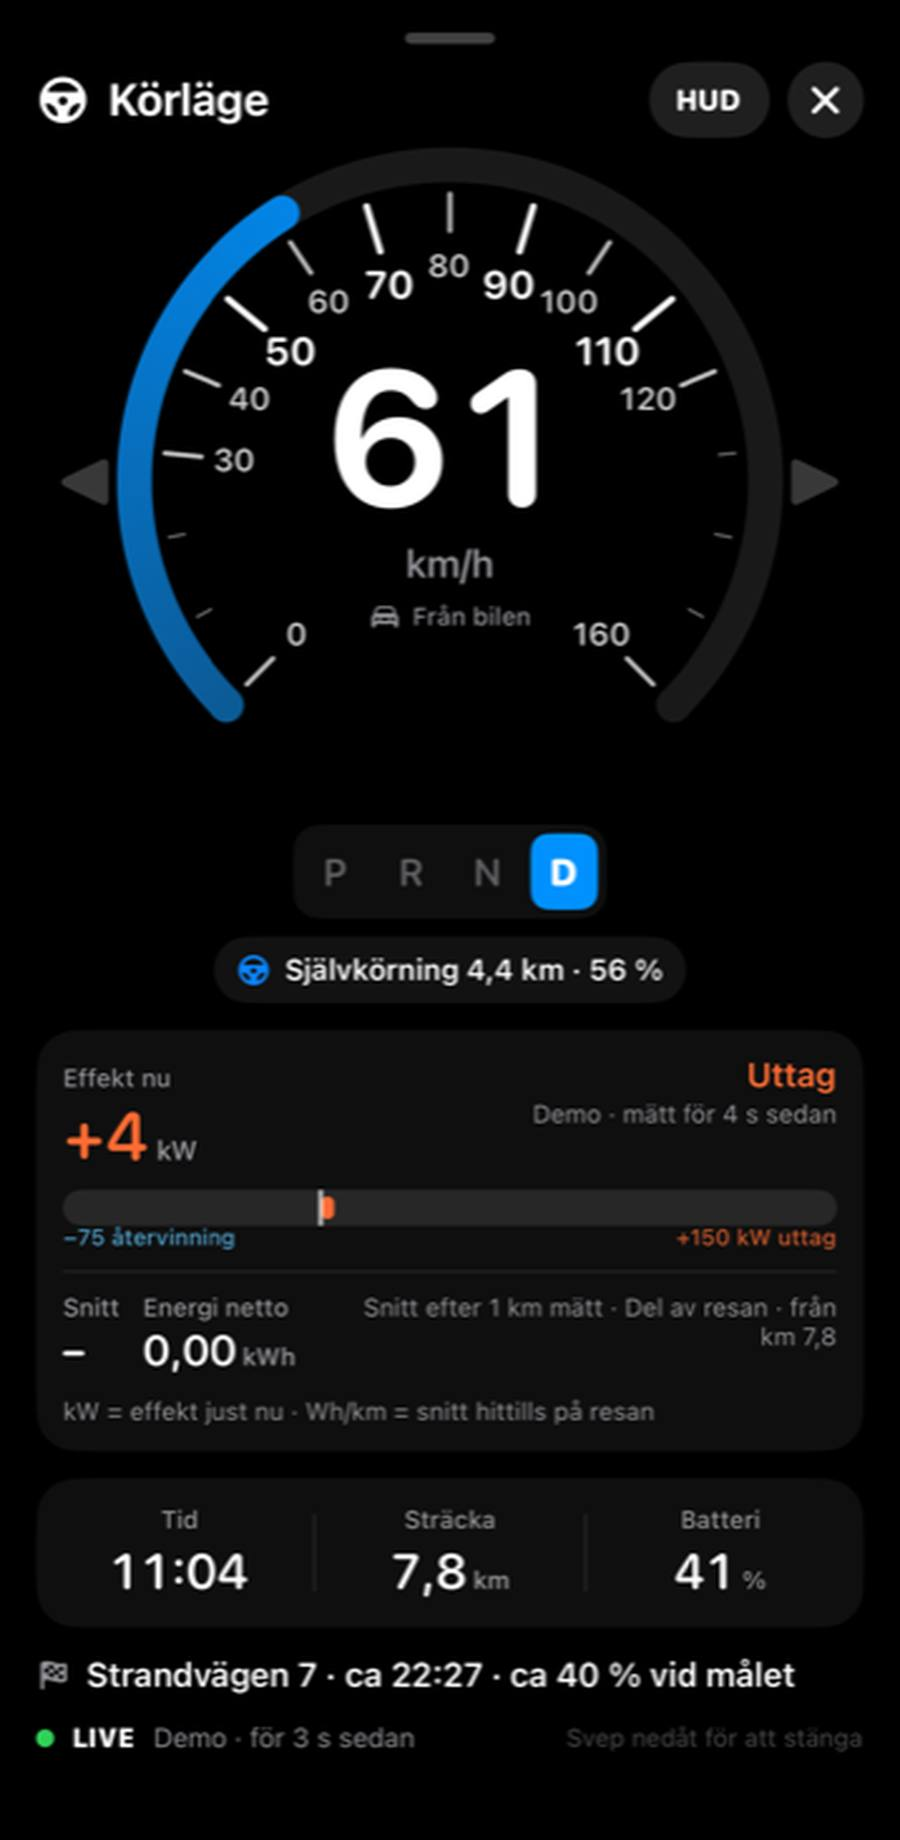
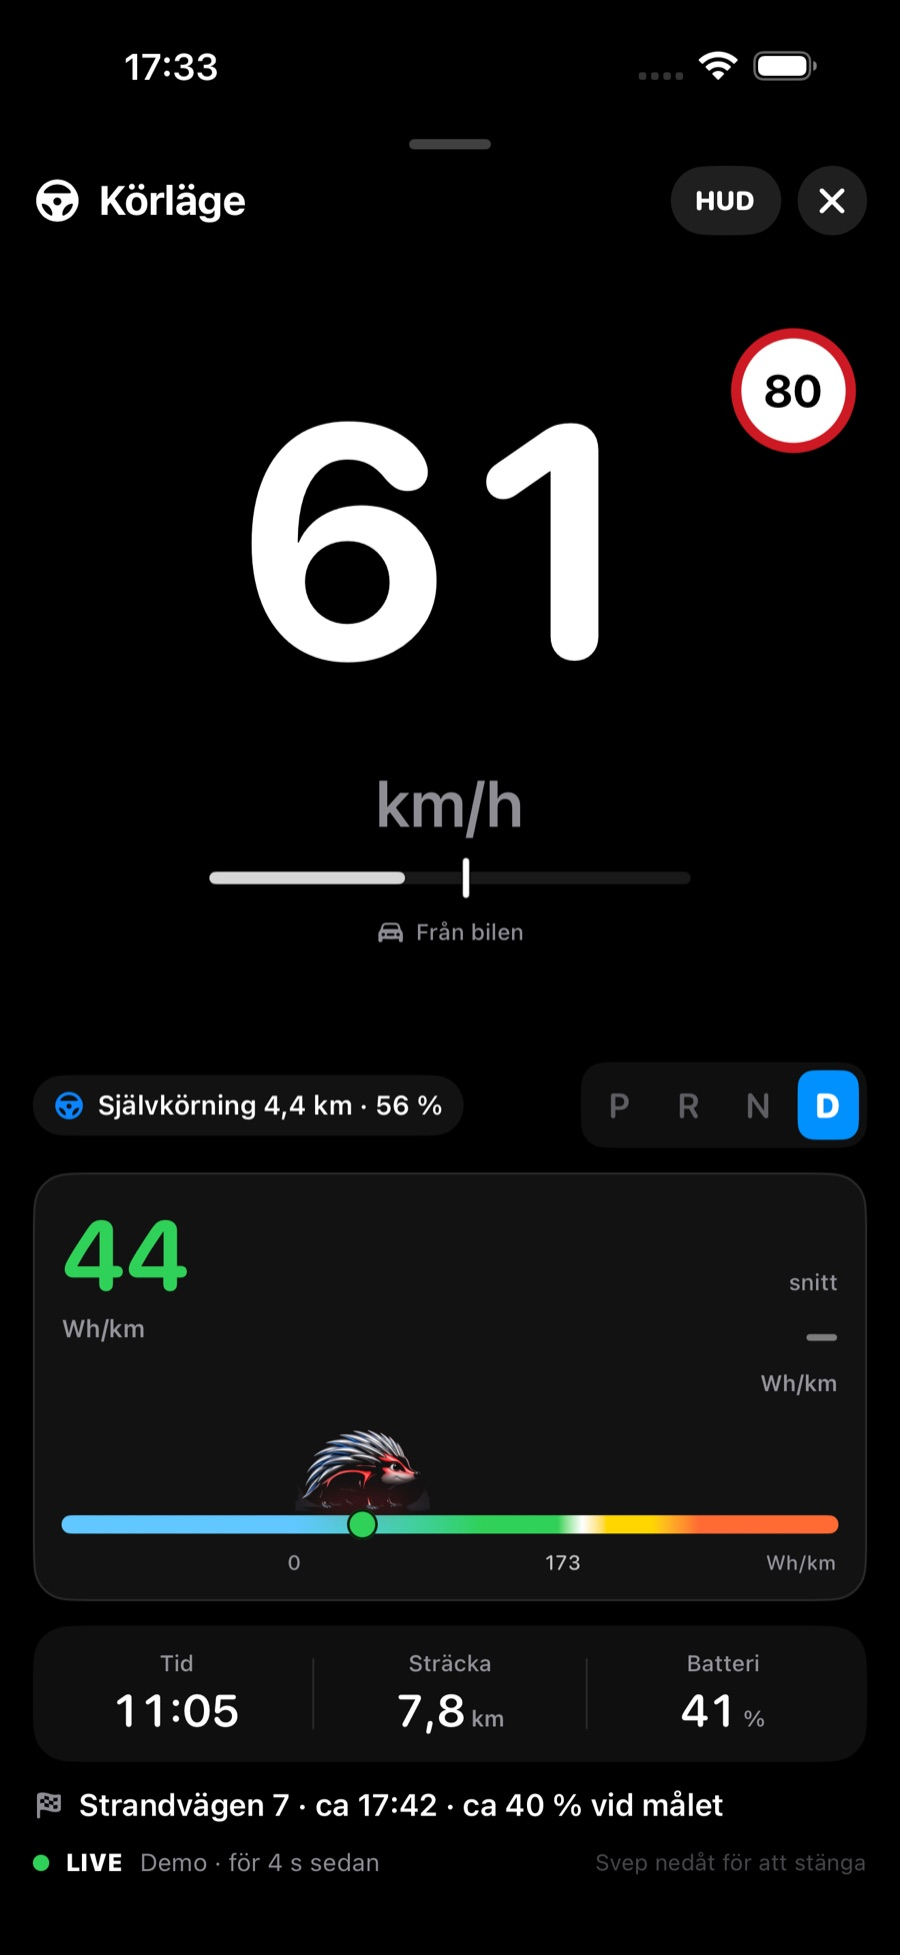
Replace the Körläge screenshot with the current demo screen.
The side text no longer mentions a route map. It now matches the speed gauge, energy, trip stats and speed sign.

diff --git a/index.html b/index.html
@@ -113,10 +113,10 @@
           <h2>Körläge</h2>
           <p>Till för när du sitter i bilen, utan att leta i menyerna.</p>
           <ul class="points">
-            <li><svg viewBox="0 0 20 20" aria-hidden="true"><circle cx="10" cy="10" r="7"/><path d="M10 10 L14 7"/><circle cx="10" cy="10" r="1.2" fill="currentColor" stroke="none"/></svg><span>Stor fartmätare</span></li>
-            <li><svg viewBox="0 0 20 20" aria-hidden="true"><path d="M11 2 L5 11 h4 l-1 7 7-10 h-4 l1-6z"/></svg><span>Resans energi</span></li>
-            <li><svg viewBox="0 0 20 20" aria-hidden="true"><path d="M4 14 c3-8 9-8 12 0"/><circle cx="14" cy="8" r="1.4" fill="currentColor" stroke="none"/></svg><span>Nästa del av rutten</span></li>
-            <li><svg viewBox="0 0 20 20" aria-hidden="true"><path d="M10 18 s6-5.2 6-9 a6 6 0 1 0-12 0 c0 3.8 6 9 6 9z"/></svg><span>Telefonens plats bara om du tillåter den. Den skickas inte till Tesla.</span></li>
+            <li><svg viewBox="0 0 20 20" aria-hidden="true"><circle cx="10" cy="10" r="7"/><path d="M10 10 L14 7"/><circle cx="10" cy="10" r="1.2" fill="currentColor" stroke="none"/></svg><span>Stor fartmätare och en tunn fartstapel</span></li>
+            <li><svg viewBox="0 0 20 20" aria-hidden="true"><path d="M11 2 L5 11 h4 l-1 7 7-10 h-4 l1-6z"/></svg><span>Energi just nu och snitt, i Wh/km</span></li>
+            <li><svg viewBox="0 0 20 20" aria-hidden="true"><circle cx="10" cy="10" r="7"/><path d="M10 6 v4 l3 2"/></svg><span>Tid, sträcka och batteri för resan</span></li>
+            <li><svg viewBox="0 0 20 20" aria-hidden="true"><circle cx="10" cy="10" r="6"/><circle cx="10" cy="10" r="4.2"/></svg><span>Hastighetsskylt som stöd. Telefonens plats skickas inte till Tesla.</span></li>
           </ul>
         </article>
       </div>
@@ -136,7 +136,7 @@
             <div class="pane" data-slide="kostnader"><div class="pane-scroll"><picture><source srcset="images/phone/kostnader.avif" type="image/avif"><source srcset="images/phone/kostnader.webp" type="image/webp"><img src="images/phone/kostnader.jpg" width="900" height="5496" alt="Kostnader i demoläge, räknat på påhittade resor." loading="lazy"></picture></div></div>
             <div class="pane" data-slide="fordon"><div class="pane-scroll"><picture><source srcset="images/phone/fordon.avif" type="image/avif"><source srcset="images/phone/fordon.webp" type="image/webp"><img src="images/phone/fordon.jpg" width="900" height="6605" alt="Fordon i demoläge: varningar, lås, däck och fordonsinfo." loading="lazy"></picture></div></div>
             <div class="pane" data-slide="widgets"><div class="pane-scroll"><picture><source srcset="images/phone/widgets.avif" type="image/avif"><source srcset="images/phone/widgets.webp" type="image/webp"><img src="images/phone/widgets.jpg" width="900" height="1961" alt="Hemskärm med Igges batteriwidget i demoläge." loading="lazy"></picture></div></div>
-            <div class="pane" data-slide="korlage"><div class="pane-scroll"><picture><source srcset="images/phone/korlage.avif" type="image/avif"><source srcset="images/phone/korlage.webp" type="image/webp"><img src="images/phone/korlage.jpg" width="900" height="1840" alt="Körläge i demoläge, med fartmätare och resans energi." loading="lazy"></picture></div></div>
+            <div class="pane" data-slide="korlage"><div class="pane-scroll"><picture><source srcset="images/phone/korlage.webp" type="image/webp"><img src="images/phone/korlage.jpg" width="900" height="1955" alt="Körläge i demoläge: fartmätare, hastighetsskylt och energi i Wh/km." loading="lazy"></picture></div></div>
           </div>
           <nav class="phone-tabs" aria-label="Flikar i appen">
             <button type="button" data-phone="hem"><svg viewBox="0 0 24 24" aria-hidden="true"><path d="M3 15 h18"/><path d="M6 15 l2-5 h8 l2 5"/><circle cx="8" cy="15.5" r="1.4"/><circle cx="16" cy="15.5" r="1.4"/></svg><span>Hem</span></button>

diff --git a/guide/index.html b/guide/index.html
@@ -164,10 +164,10 @@
 <h2 id="korlage">Körläge</h2>
 <p>Körläget öppnas i helskärm när bilen börjar köra och appen är öppen, om <strong>Visa körläge automatiskt</strong> är på. Stänger du det öppnas det igen först vid nästa körning. Du kan också öppna det från kortet på Hem.</p>
 <figure class="guide-figure">
-<img src="../images/phone/korlage.jpg" width="900" height="1840" alt="Körläge i demoläge, med fartmätare och resans energi.">
+<img src="../images/phone/korlage.jpg" width="900" height="1955" alt="Körläge i demoläge: fartmätare, hastighetsskylt och energi i Wh/km.">
 <figcaption>Körläge i demoläge. Påhittat exempel.</figcaption>
 </figure>
-<p>Fartmätaren använder telefonens GPS ungefär en gång i sekunden när värdet är färskt och säkert. Annars visas bilens fart, som kommer mer sällan. Resans energi och nästa del av rutten kan visas.</p>
+<p>Fartmätaren är en stor siffra och en tunn stapel. Den använder telefonens GPS ungefär en gång i sekunden när värdet är färskt och säkert. Annars visas bilens fart. Under den syns energin just nu och snittet i Wh/km, och resans tid, sträcka och batteri. Finns ett mål visas gatan och ungefärlig tid, utan karta.</p>
 <p>En hastighetsgräns kan visas som stöd. Den hämtas från öppna kartdata och kan vara fel, till exempel vid vägarbete eller en ny skylt. Det är alltid du som förare som följer vägmärken och trafikregler. Håll blicken på vägen. Ställ in det du behöver innan du kör, eller låt en passagerare sköta telefonen. Samma sak står i <a href="/villkor/">villkoren</a>.</p>
 
 <h2 id="widgets">Widgets</h2>
